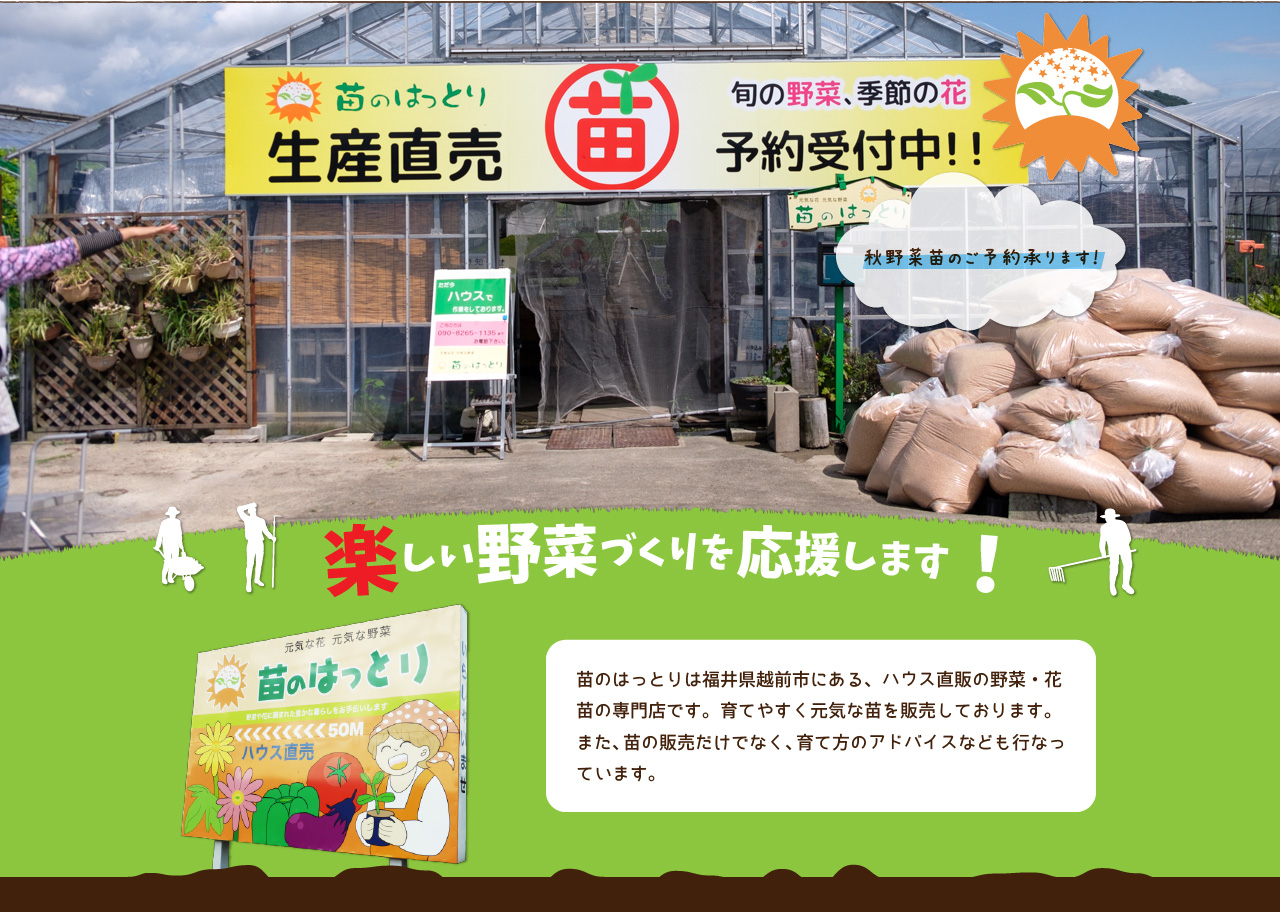
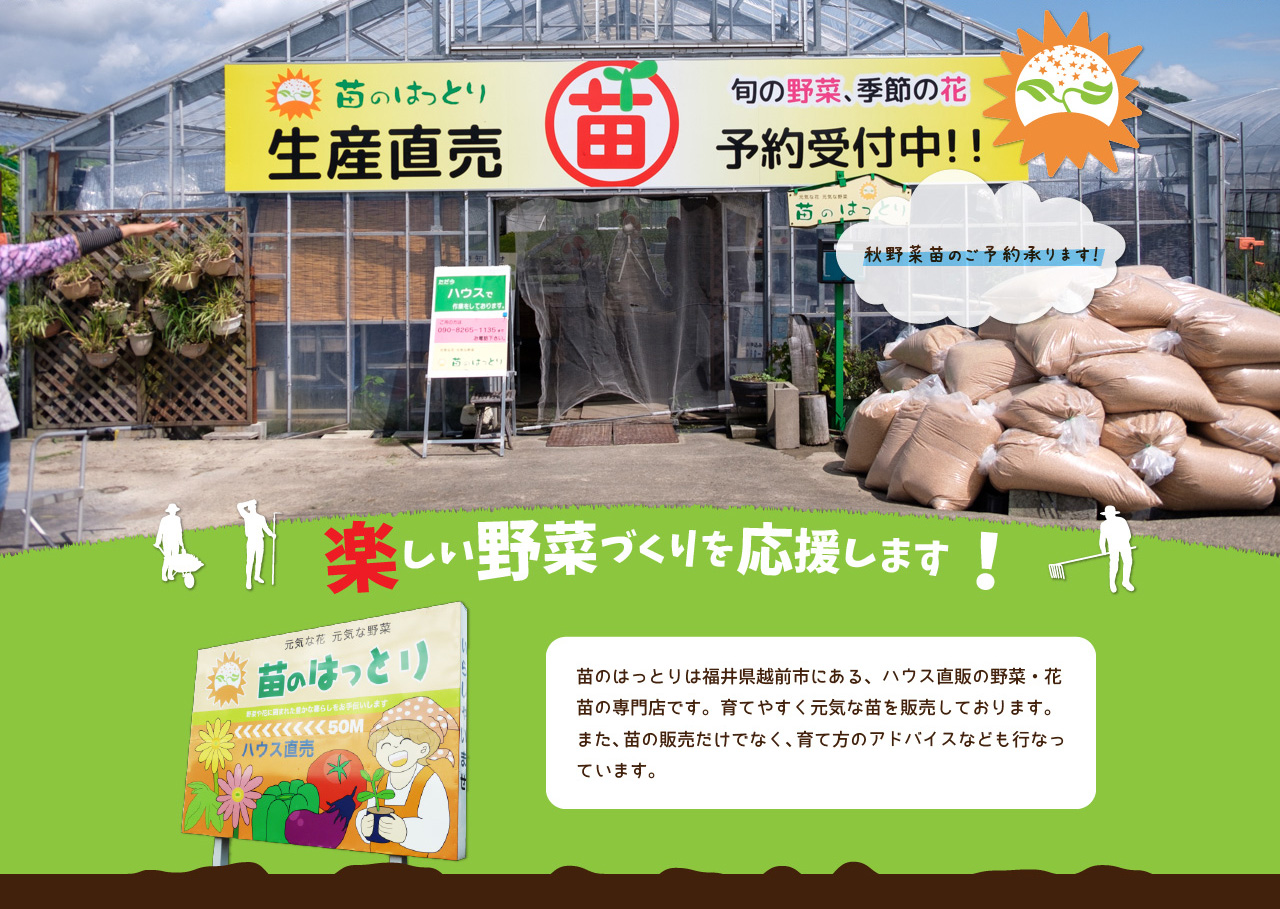
ヘッダーのメニューを再作成

diff --git a/style.css b/style.css
@@ -86,7 +86,7 @@ td {
     font-weight: normal;
     font-style: normal;
     line-height: 1;
-    font-family: inherit;
+    font-family: BokutachinoGothic, inherit;
     text-align: left;
 }
 
@@ -242,7 +242,7 @@ summary {
 /* -------------------------------------------------------------------------------- */
 @font-face {
 	font-family: "BokutachinoGothic";
-	src: url('./font/Boku2-Regular-min.woff')
+	src: url('./font/Boku2-Regular-min.woff');
 }
 
 
@@ -465,44 +465,66 @@ button, input, select, textarea {
 /* -------------------------------------------------------------------------------- */
 /*	6.	Menu Navigation
 /* -------------------------------------------------------------------------------- */
-nav {
+.nav-wrapper::before,
+.nav-wrapper::after {
+    content: "";
+    display: block;
+    background-image: url(images/menu_line_horizontal.png);
     width: 100%;
-    padding-top: 10px;
-    background: url("images/border_yoko.png") repeat-x;
+    height: 3px;
+}
+
+.nav-wrapper::after {
+    margin-top: 15px
+}
+
+.nav-wrapper {
+    width: 100%;
+    height: 100px;
     background-color: #fff;
 }
 
-.nav-ul {
-    margin: 0;
-    padding: 0;
+#global-nav {
+    padding-top: 16px;
     text-align: center;
-    font-size: 0;
 }
 
-nav ul li {
-    margin: 4px;
-    padding: 25px 0px 5px 15px;
+#global-nav .nav-item {
     display: inline-block;
-    text-align: center;
-    font-size: 15pt;
-    color: #42210b;
-    background: url("images/border_tate.png") repeat-y;
+    vertical-align: top;
 }
 
-nav ul li:last-child::after {
-    content: '';
-    margin-left: 5px;
-    padding-top: 55px;
-    padding-right: 15px;
-    background: url("images/border_tate.png") repeat-y;
+#global-nav ul li img {
+    width: 48px;
+    height: 36px;
 }
-nav ul li:hover {
-/*    background: url("images/border_tate.png") repeat-y;*/
-    background-color: #ffff7d;
-    transition: 0.4s;
+
+.nav-item {
+	text-align: center;
 }
-.n_link:hover {
+
+.nav-item a {
+    display: block;
+    width: 140px;
+    height: 64px;
+    font-size: 21px;
+    color: #42210b;
     text-decoration: none;
+}
+
+.nav-item a:hover {
+    background-color: #ffff7d;
+}
+
+#nav-separator img {
+    width: 5px !important;
+    height: 64px !important;
+}
+
+.nav-item p {
+    height: 25px;
+    overflow: hidden;
+	text-align: center;
 }
 
 /* -------------------------------------------------------------------------------- */
@@ -555,7 +577,7 @@ nav ul li:hover {
 /*---- 各個別ページ汎用 -----*/
 .section {
     width: 90%;
-    margin: 100px auto;
+    margin: 0px auto;
     padding: 50px;
     background: #fff;
     text-align: center;
@@ -729,7 +751,7 @@ nav ul li:hover {
 .desc-img {
     margin: 2rem 4rem;
     position: relative;
-    left:15%;
+    left:10%;
 }
 
 .desc-title {

diff --git a/header.php b/header.php
@@ -55,18 +55,43 @@ wp_deregister_script('jquery');
                 <p class="header_p"><i class="fas fa-fax"></i>0778-22-1987</p>
                 <p class="header_p"><i class="fas fa-mobile-alt"></i>090-8265-1135</p>
             </div>
-            <div class="col-lg-12"></div>
-            <nav class="order-sm-4">
-                <ul class="nav-ul">
-                    <li ><a class="n_link" href="/"><img class="text-center" src="<?php echo esc_url( get_theme_file_uri('images/home.png') ); ?>" alt=""><br>HOME</a></li>
-                    <li><a class="n_link" href="/about"><img src="<?php echo esc_url( get_theme_file_uri('images/pancil.png') ); ?>" alt=""><br>紹介記事</a></li>
-                    <li><a class="n_link" href="/yasainae"><img src="<?php echo esc_url( get_theme_file_uri('images/sprout.png') ); ?>" alt=""><br>野菜苗</a></li>
-                    <li><a class="n_link" href="/hananae"><img src="<?php echo esc_url( get_theme_file_uri('images/flower.png') ); ?>" alt=""><br>花苗</a></li>
-                    <li><a class="n_link" href="/yasai-2"><img src="<?php echo esc_url( get_theme_file_uri('images/eggplant.png') ); ?>" alt=""><br>野菜</a></li>
-                    <li><a class="n_link" href="/daisy"><img src="<?php echo esc_url( get_theme_file_uri('images/kiku_11.png') ); ?>" alt=""><br>食用菊</a></li>
-                    <li><a class="n_link" href=""><img src="<?php echo esc_url( get_theme_file_uri('images/letter.png') ); ?>" alt=""><br>お問い合わせ</a></li>
-                </ul>
-            </nav>
-        </div>
+            <div class="col-lg-12 col-md-12 col-sm-12 px-0 order-sm-4">
+		        <div class="nav-wrapper">
+		            <nav id="global-nav">
+		                <ul style="text-align: center;">
+		                    <li class="nav-item" id="nav-separator"><img src="<?php echo get_theme_file_uri('images/menu_line_vertical.png'); ?>"></li>
+		                    <li class="nav-item"><a href="/"><img src="<?php echo get_theme_file_uri('images/menu_ico_home.png'); ?>" alt="HOME">
+		                            <p>HOME</p>
+		                        </a></li>
+		                    <li class="nav-item" id="nav-separator"><img src="<?php echo get_theme_file_uri('images/menu_line_vertical.png'); ?>"></li>
+		                    <li class="nav-item"><a href="/about"><img src="<?php echo get_theme_file_uri('images/menu_ico_shoukai.png'); ?>" alt="HOME">
+		                            <p>紹介記事</p>
+		                        </a></li>
+		                    <li class="nav-item" id="nav-separator"><img src="<?php echo get_theme_file_uri('images/menu_line_vertical.png'); ?>"></li>
+		                    <li class="nav-item"><a href="/yasainae"><img src="<?php echo get_theme_file_uri('images/menu_ico_nae.png'); ?>" alt="HOME">
+		                            <p>野菜苗</p>
+		                        </a></li>
+		                    <li class="nav-item" id="nav-separator"><img src="<?php echo get_theme_file_uri('images/menu_line_vertical.png'); ?>"></li>
+		                    <li class="nav-item"><a href="/hananae"><img src="<?php echo get_theme_file_uri('images/menu_ico_hana.png'); ?>" alt="HOME">
+		                            <p>花苗</p>
+		                        </a></li>
+		                    <li class="nav-item" id="nav-separator"><img src="<?php echo get_theme_file_uri('images/menu_line_vertical.png'); ?>"></li>
+		                    <li class="nav-item"><a href="/yasai-2"><img src="<?php echo get_theme_file_uri('images/menu_ico_yasai.png'); ?>" alt="HOME">
+		                            <p>野菜</p>
+		                        </a></li>
+		                    <li class="nav-item" id="nav-separator"><img src="<?php echo get_theme_file_uri('images/menu_line_vertical.png'); ?>"></li>
+		                    <li class="nav-item"><a href="/daisy"><img src="<?php echo get_theme_file_uri('images/menu_ico_kiku.png'); ?>" alt="HOME">
+		                            <p>食用菊</p>
+		                        </a></li>
+		                    <li class="nav-item" id="nav-separator"><img src="<?php echo get_theme_file_uri('images/menu_line_vertical.png'); ?>"></li>
+		                    <li class="nav-item"><a href="#"><img src="<?php echo get_theme_file_uri('images/menu_ico_contact.png'); ?>" alt="HOME">
+		                            <p>お問い合わせ</p>
+		                        </a></li>
+		                    <li class="nav-item" id="nav-separator"><img src="<?php echo get_theme_file_uri('images/menu_line_vertical.png'); ?>"></li>
+		                </ul>
+		            </nav>
+		        </div>
+            </div>		<!-- col-lg-12 -->
+        </div>			<!-- row -->
     </div>
 </header>

diff --git a/page-daisy.php b/page-daisy.php
@@ -7,7 +7,7 @@ Template Name: daisy
 
 <?php get_header(); ?>
 <img src="<?php echo esc_url( get_theme_file_uri('images/main-img6.jpg') ); ?>" alt="食用菊">
-<div class="container">
+<div class="container pt-5">
    <div class="row">
     <h4 class="section_h">食用菊って？</h4>
     <div class="col-lg-4 col-md-4 col-sm-12">
@@ -32,11 +32,19 @@ Template Name: daisy
     <section class="section">
     <p class="main_p">ご注文は下記注文票をダウンロードしてご希望の品目を記入し、<br>ＦＡＸか当ハウスまで直接お持ちください。</p>
     <a class="d_g_pdf" href="#">2019年度苗注文票のダウンロードはこちら<i class="far fa-file-pdf"></i></a>
-</section>
-<h4 class="section_h">おいしいレシピ</h4>
+    </section>
+
+<h4 class="section_h mt-5">おいしいレシピ</h4>
 <div class="col-lg-4 col-md-4 col-sm-12">
     
 </div>
-    </div>
+<div class="col-lg-4 col-md-4 col-sm-12">
+    
 </div>
+<div class="col-lg-4 col-md-4 col-sm-12">
+    
+</div>
+
+    </div> <!-- row -->
+</div>     <!-- container -->
 <?php get_footer(); ?>

diff --git a/page-yasainae.php b/page-yasainae.php
@@ -135,7 +135,7 @@ window.onload = entryChange;
 			</div>	<!-- row -->
 		</div>		<!-- daikon -->
 
-<section class="section">
+<section class="section" style="margin-top: 50px;">
     <p class="main_p">ご注文は下記注文票をダウンロードしてご希望の品目を記入し、<br>ＦＡＸか当ハウスまで直接お持ちください。</p>
     <a class="d_g_pdf" href="#">2019年度苗注文票のダウンロードはこちら<i class="far fa-file-pdf"></i></a>
 </section>
